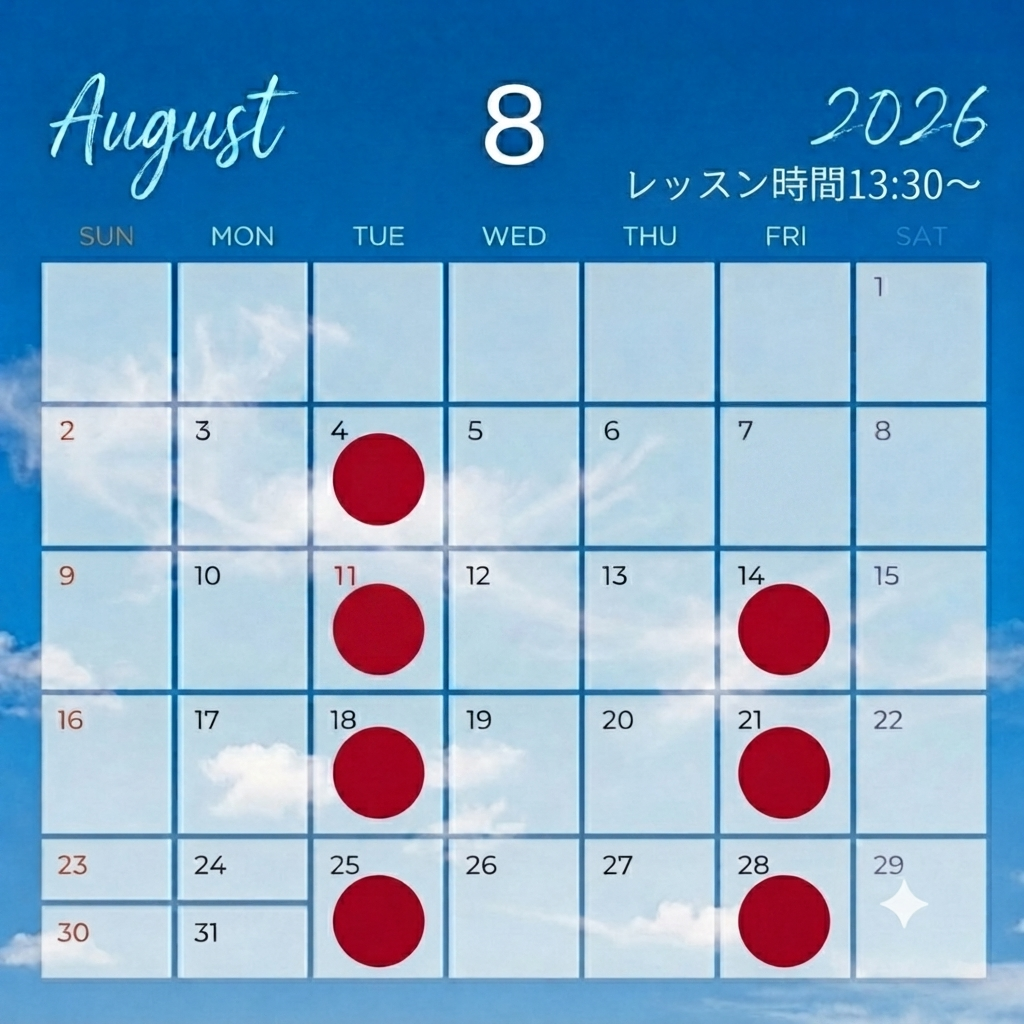
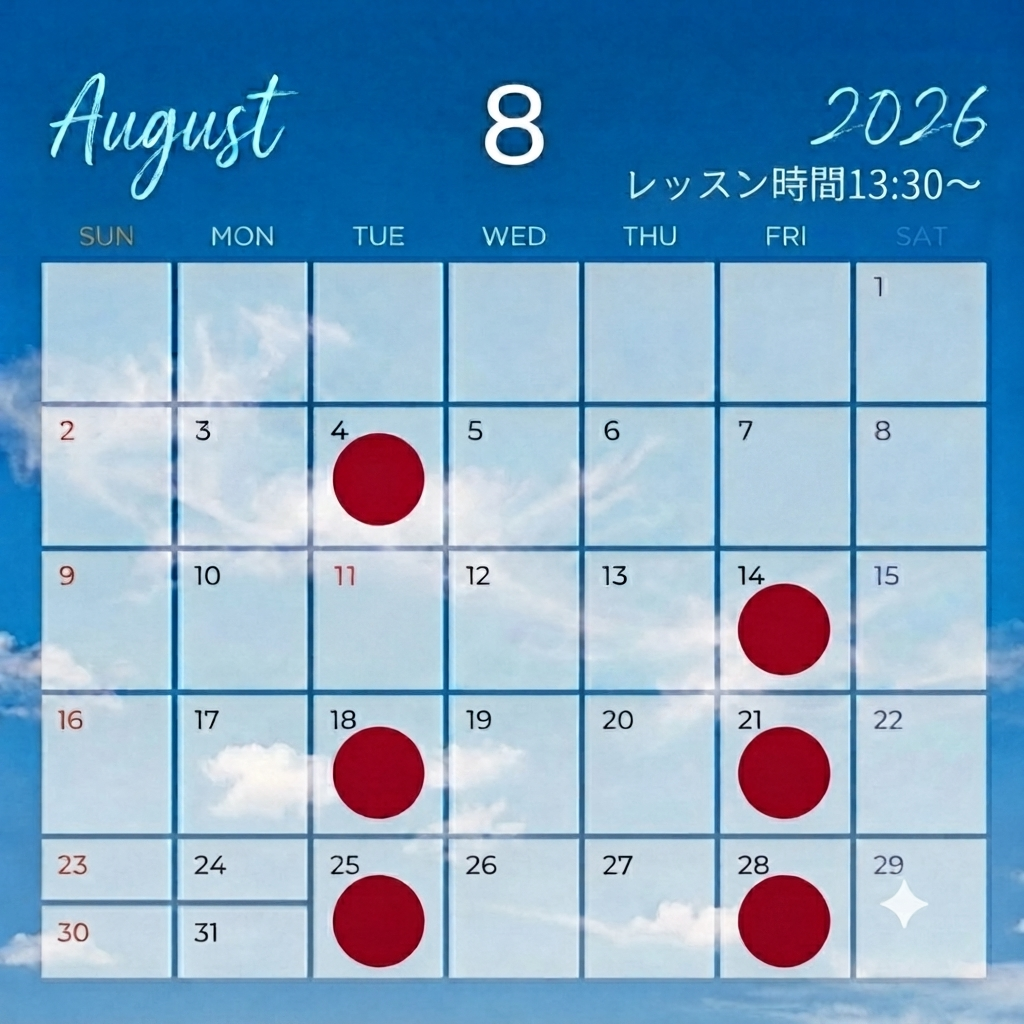
スケジュール写真訂正

Changed region(s): [[0.3125, 0.5625, 0.4375, 0.6875]]

diff --git a/index.html b/index.html
@@ -46,12 +46,23 @@
         }
 
         .hero-title {
-            font-family: "Shippori Mincho", serif;
-            font-size: 2.8rem;
-            font-weight: 700; 
-            line-height: 1.6;
-            margin-bottom: 25px;
-            letter-spacing: 0.1em;
+            font-family: "Shippori Mincho", serif !important;
+            font-weight: 400 !important; 
+    
+    /* 色を「半透明の白」に指定 
+       rgba(255, 255, 255, 0.85) の最後の「0.85」が不透明度です。
+       背景が暗めなら 0.85、背景が明るめなら 0.9（少し濃いめ）にするのがおすすめです。
+    */
+    color: rgba(255, 255, 255, 0.8) !important;
+                  
+    
+    /* レイアウトの調整 */
+    font-size: 3.5rem !important; 
+    margin: 0 !important;
+    padding: 0 !important;
+    display: inline-block !important;
+    line-height: 1.4 !important; 
+    letter-spacing: 0.06em !important;
         }
 
         .hero-lead {
@@ -197,7 +208,7 @@
 <body>
 
     <div class="mobile-header-bar shadow-sm">
-        <a class="navbar-brand fw-bold" href="#" style="color: #2c4a3e; font-size: 1.2rem;">オンラインヨガ"わたし時間"</a>
+        <a class="navbar-brand fw-bold" href="#" style="color: #2c4a3e; font-size: 1.2rem;">オンラインヨガ "わたし時間"</a>
         <button class="hamburger-btn" type="button" data-bs-toggle="offcanvas" data-bs-target="#mobileMenu">
             <i class="bi bi-list"></i>
         </button>
@@ -240,12 +251,23 @@
 
             <div class="top-hero-container">
                 <img src="images/pola.jpeg" alt="pola" class="top-full-img">
-                <div class="hero-text-overlay">
-                    <h1 class="hero-title" id="animate-title">毎日がもっと楽しくなる大人のための<br>"わたし時間"</h1>
+                <!--<div class="hero-text-overlay">
+                    <h1 class="hero-title" id="animate-title">毎日がもっと楽しくなる<br>大人のための<br>"わたし時間"</h1>
                     <p class="hero-lead" id="animate-lead">ため息を、ふっと深呼吸に変えて。<br>何歳からでも、気軽に心地よいヨガを始めてみませんか?</p>
-                </div>
-            </div>
-
+                </div>-->
+            <div class="hero-text-overlay">
+            <h1 class="hero-title" id="animate-title">
+            <span class="line1">毎日がもっと楽しくなる</span>
+            <span class="line2">大人のための</span>
+            <span class="line3">"わたし時間"</span>
+            </h1>
+            <!-- サブテキストのクラス名を hero-lead と仮定します -->
+            <p class="hero-lead" id="animate-lead">
+            ため息を、ふっと深呼吸に変えて。<br>
+            何歳からでも、気軽に心地よいヨガを始めてみませんか？
+            </p>
+            </div></div>
+     
             <section id="concept" class="container py-5">
                 <div class="row justify-content-center text-center mb-4">
                     <div class="col-md-8">